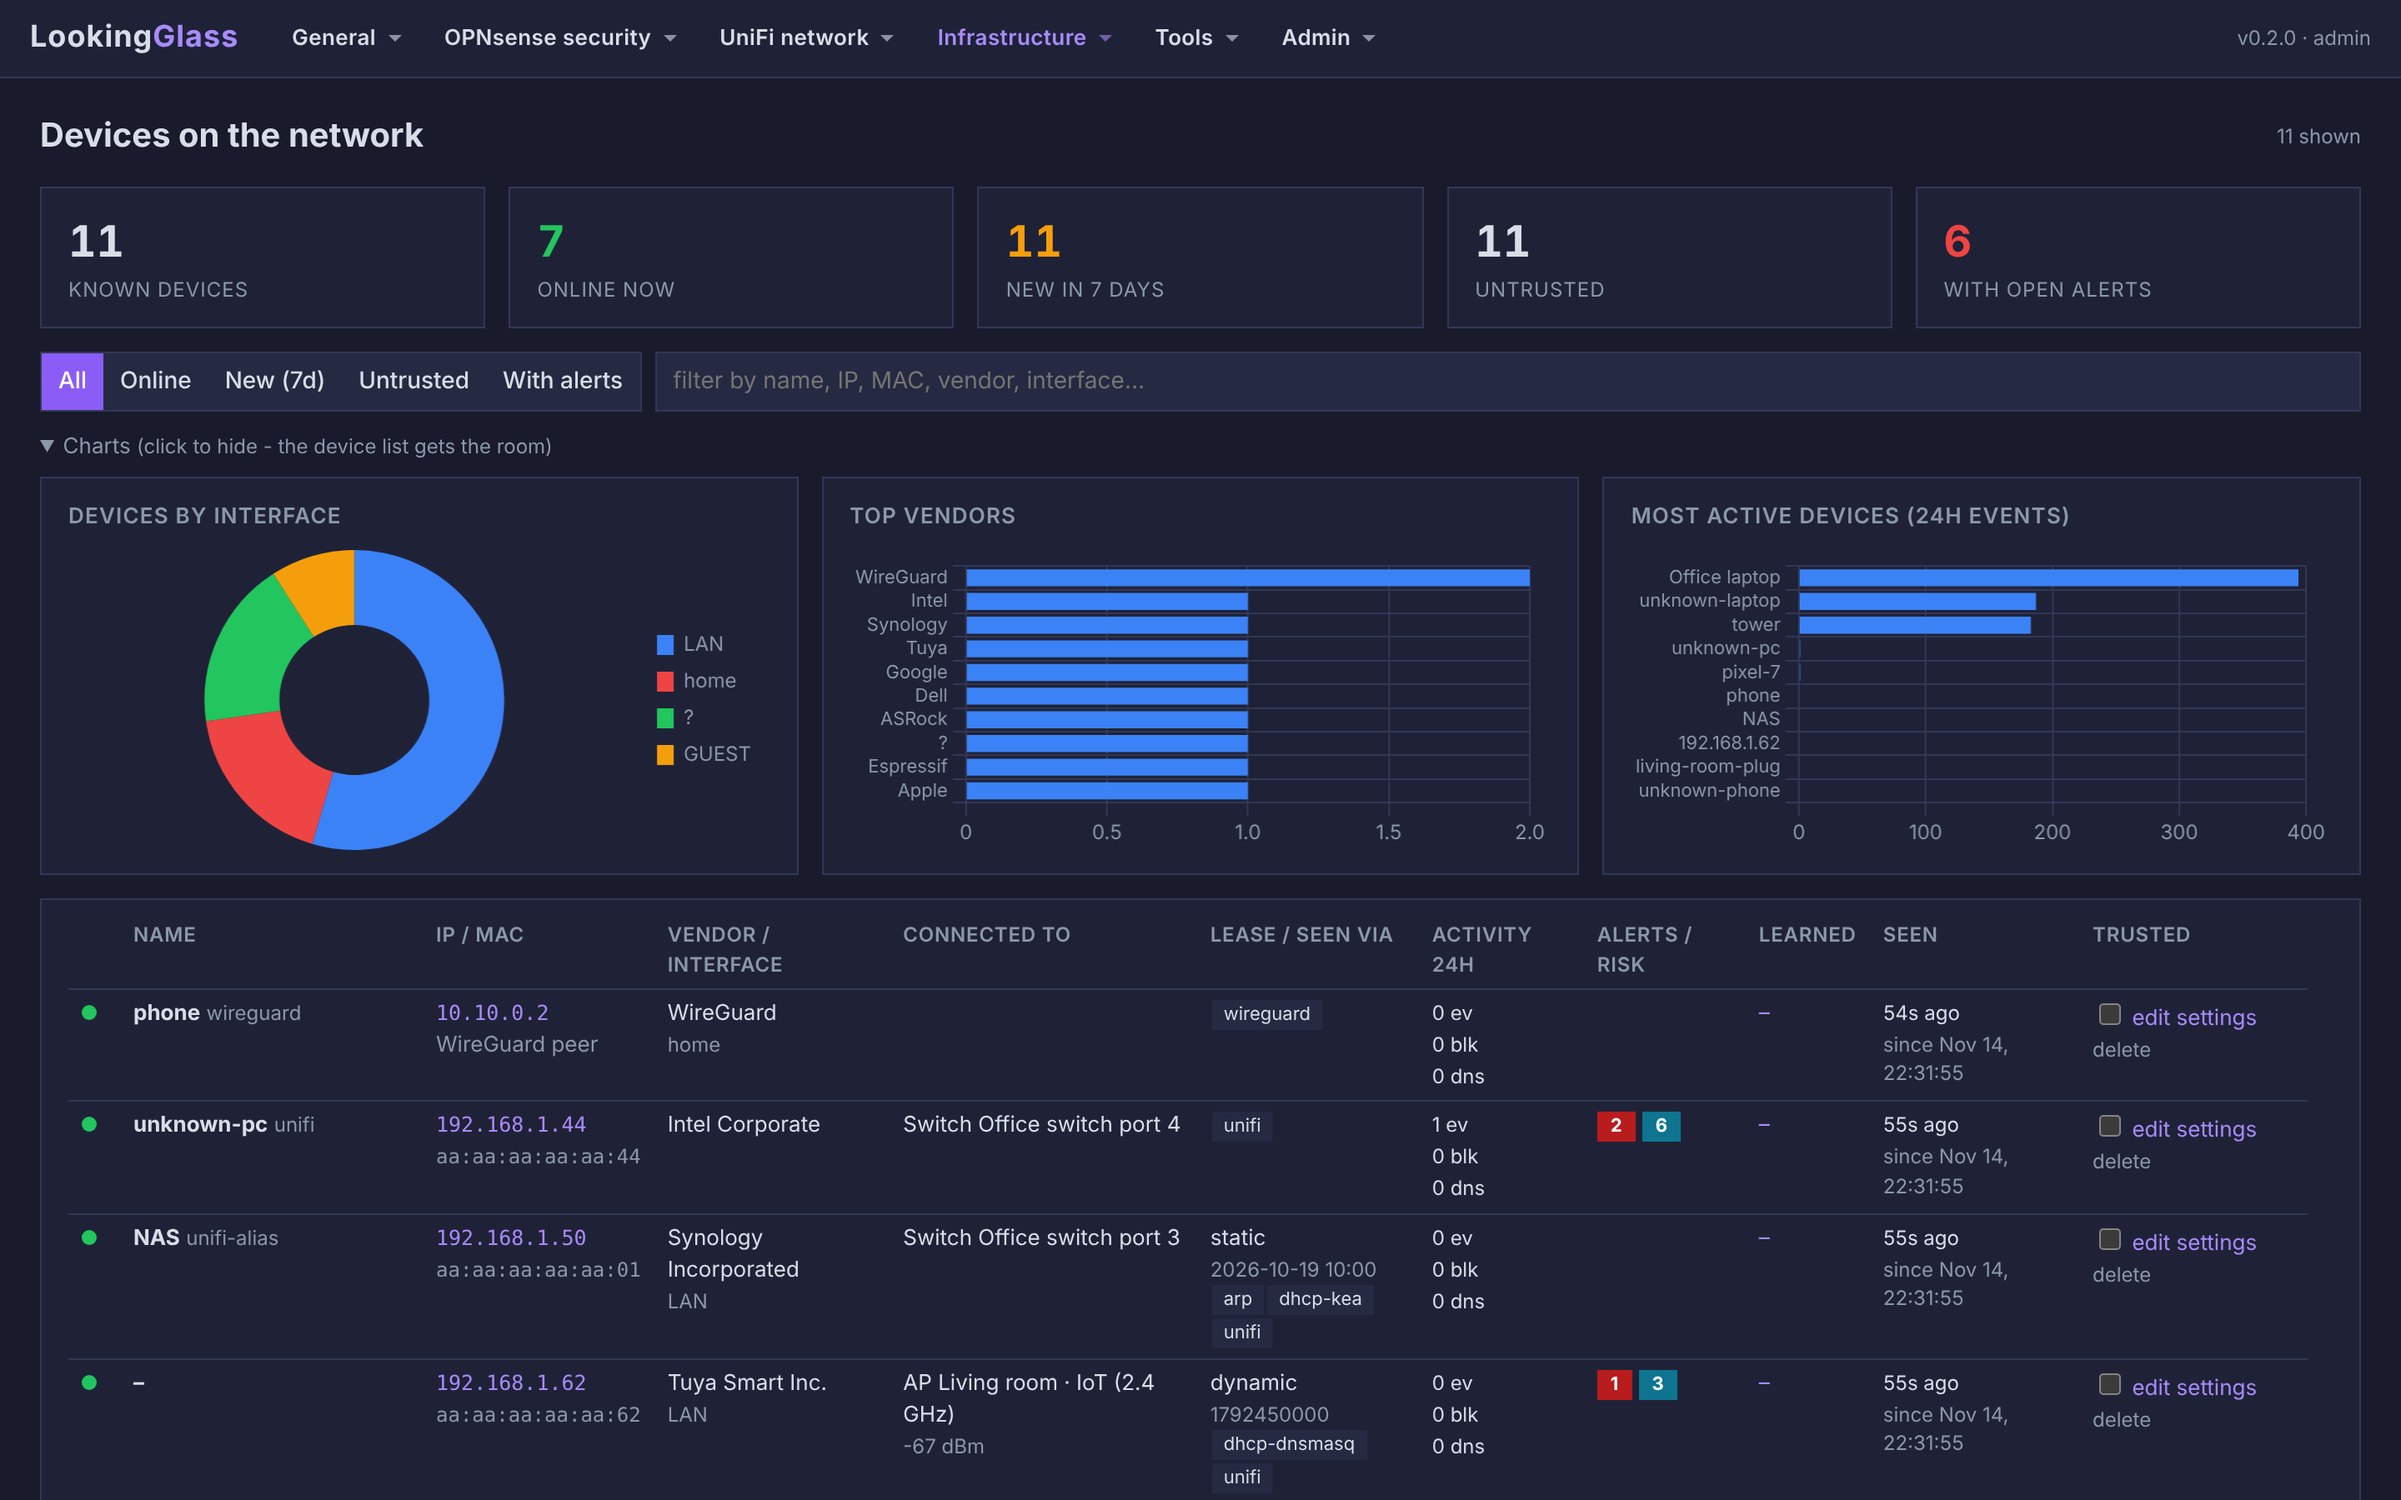
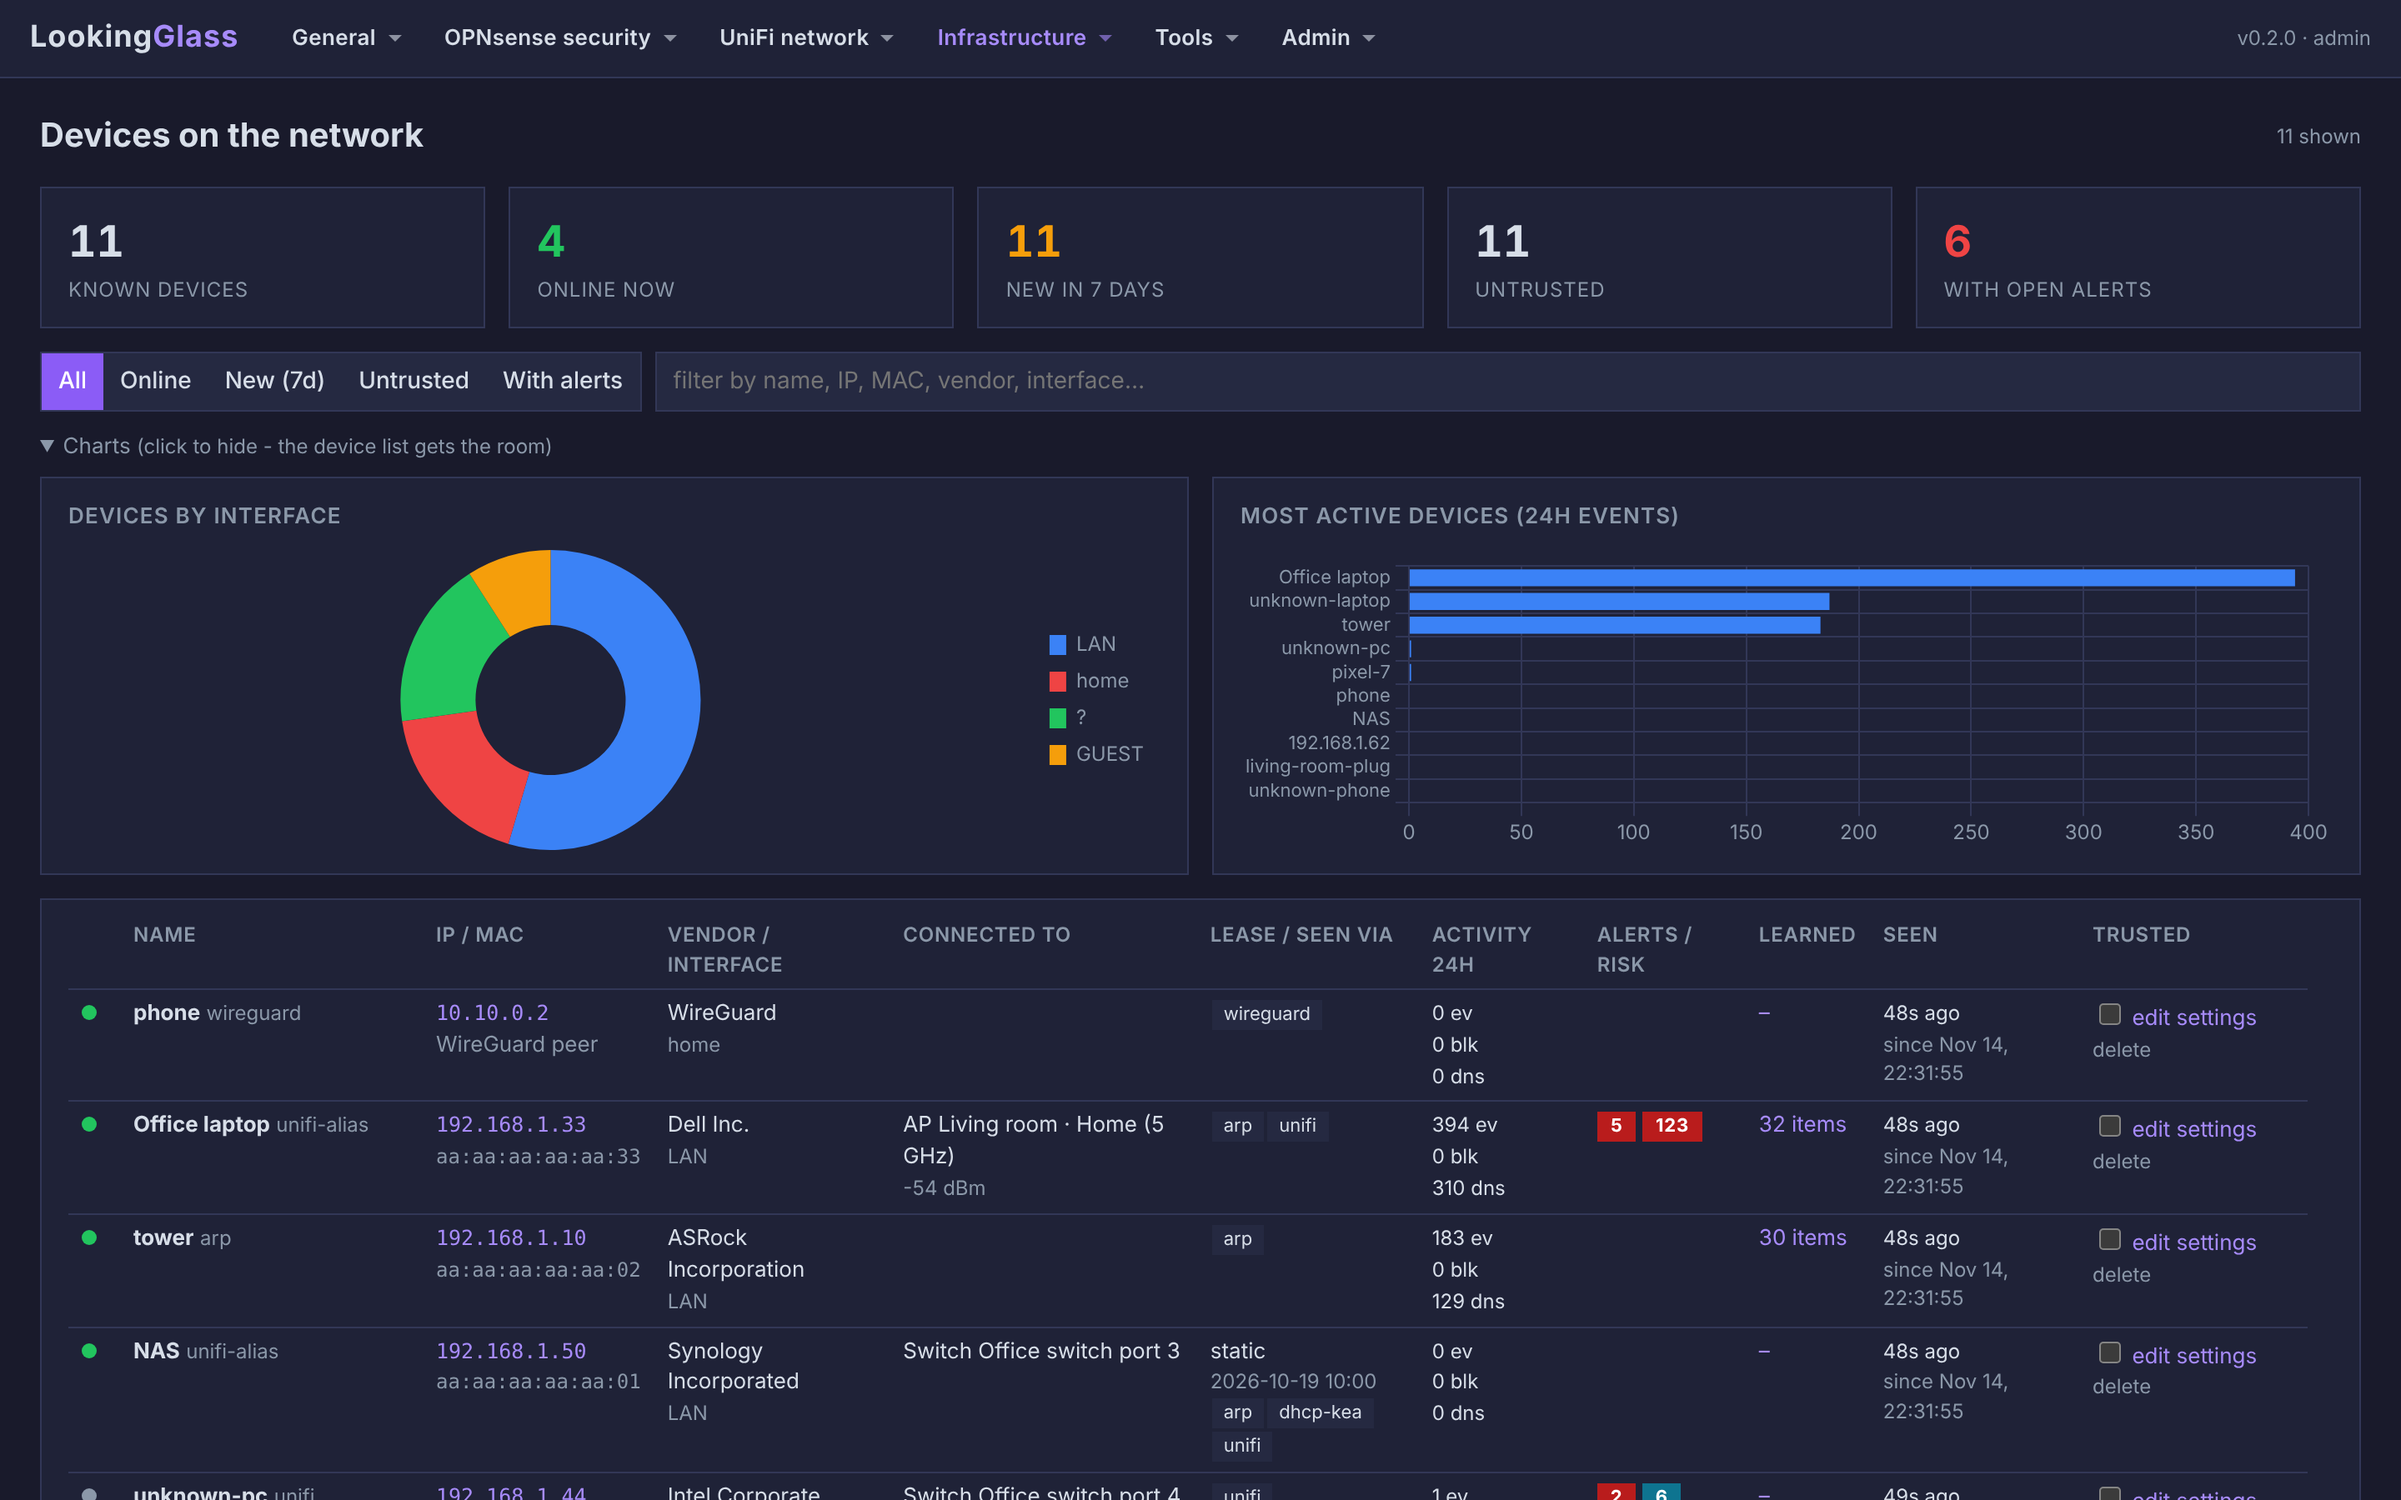
Devices: remove the Top vendors chart
The two remaining charts share the row (two-column grid), so no gap is left.
Devices screenshot retaken.

Claude-Session: https://claude.ai/code/session_0184JzzGNrcCa8Vzp78ANDfP

diff --git a/lookingglass/web/templates/devices.html b/lookingglass/web/templates/devices.html
@@ -11,9 +11,8 @@
 </div>
 <details class="charts-fold" id="dev-charts" open>
   <summary>Charts <span class="muted small">(click to hide - the device list gets the room)</span></summary>
-  <div class="grid g3">
+  <div class="grid g2">
     <div class="card"><h3>Devices by interface</h3><div class="chart-box sm"><canvas id="c-if"></canvas></div></div>
-    <div class="card"><h3>Top vendors</h3><div class="chart-box sm"><canvas id="c-vendor"></canvas></div></div>
     <div class="card"><h3>Most active devices (24h events)</h3><div class="chart-box sm"><canvas id="c-active"></canvas></div></div>
   </div>
 </details>
@@ -71,7 +70,6 @@ async function load() {
     k("New in 7 days", devs.filter(d => new Date(d.first_seen) > week).length, "warn") + k("Untrusted", devs.filter(d => !d.trusted).length) +
     k("With open alerts", devs.filter(d => d.alerts > 0).length, devs.some(d => d.alerts > 0) ? "bad" : "");
   LG.pieChart("c-if", count(devs, d => d.interface).slice(0, 8).map(([label, v]) => ({ label, v })));
-  LG.barChart("c-vendor", count(devs, d => (d.vendor || "").split(/[ ,]/)[0]).slice(0, 10).map(([label, v]) => ({ label, v })), true);
   LG.barChart("c-active", [...devs].sort((a, b) => b.events - a.events).slice(0, 10).map(d => ({ label: d.hostname || d.ip || d.mac, v: d.events })), true);
   render();
 }
